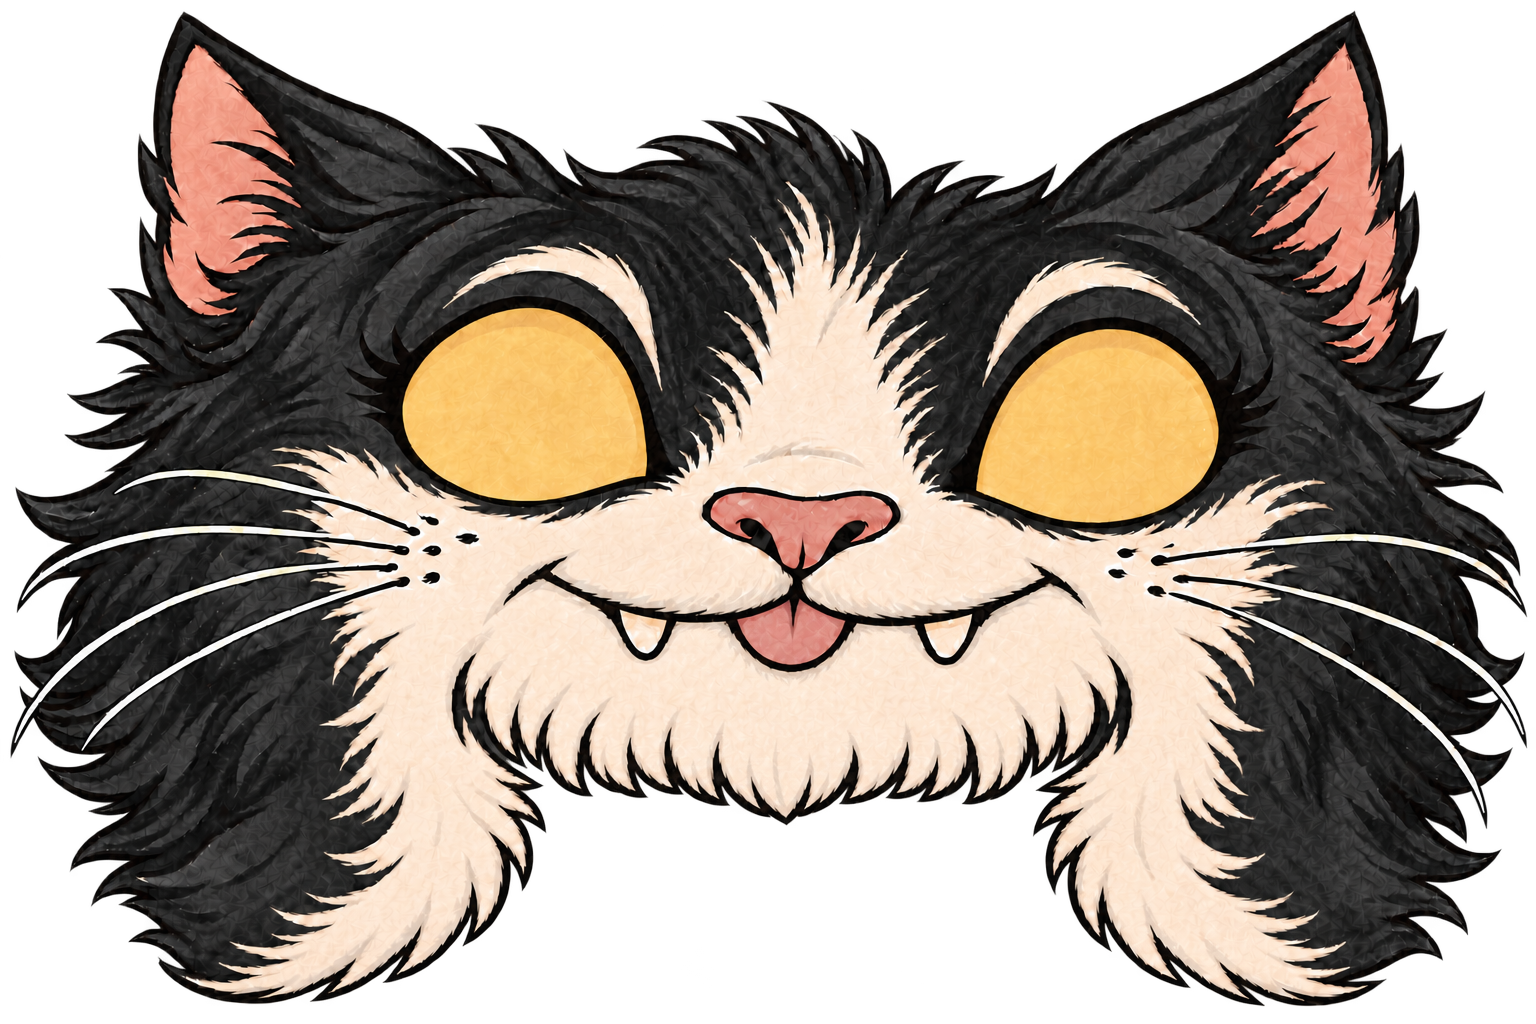
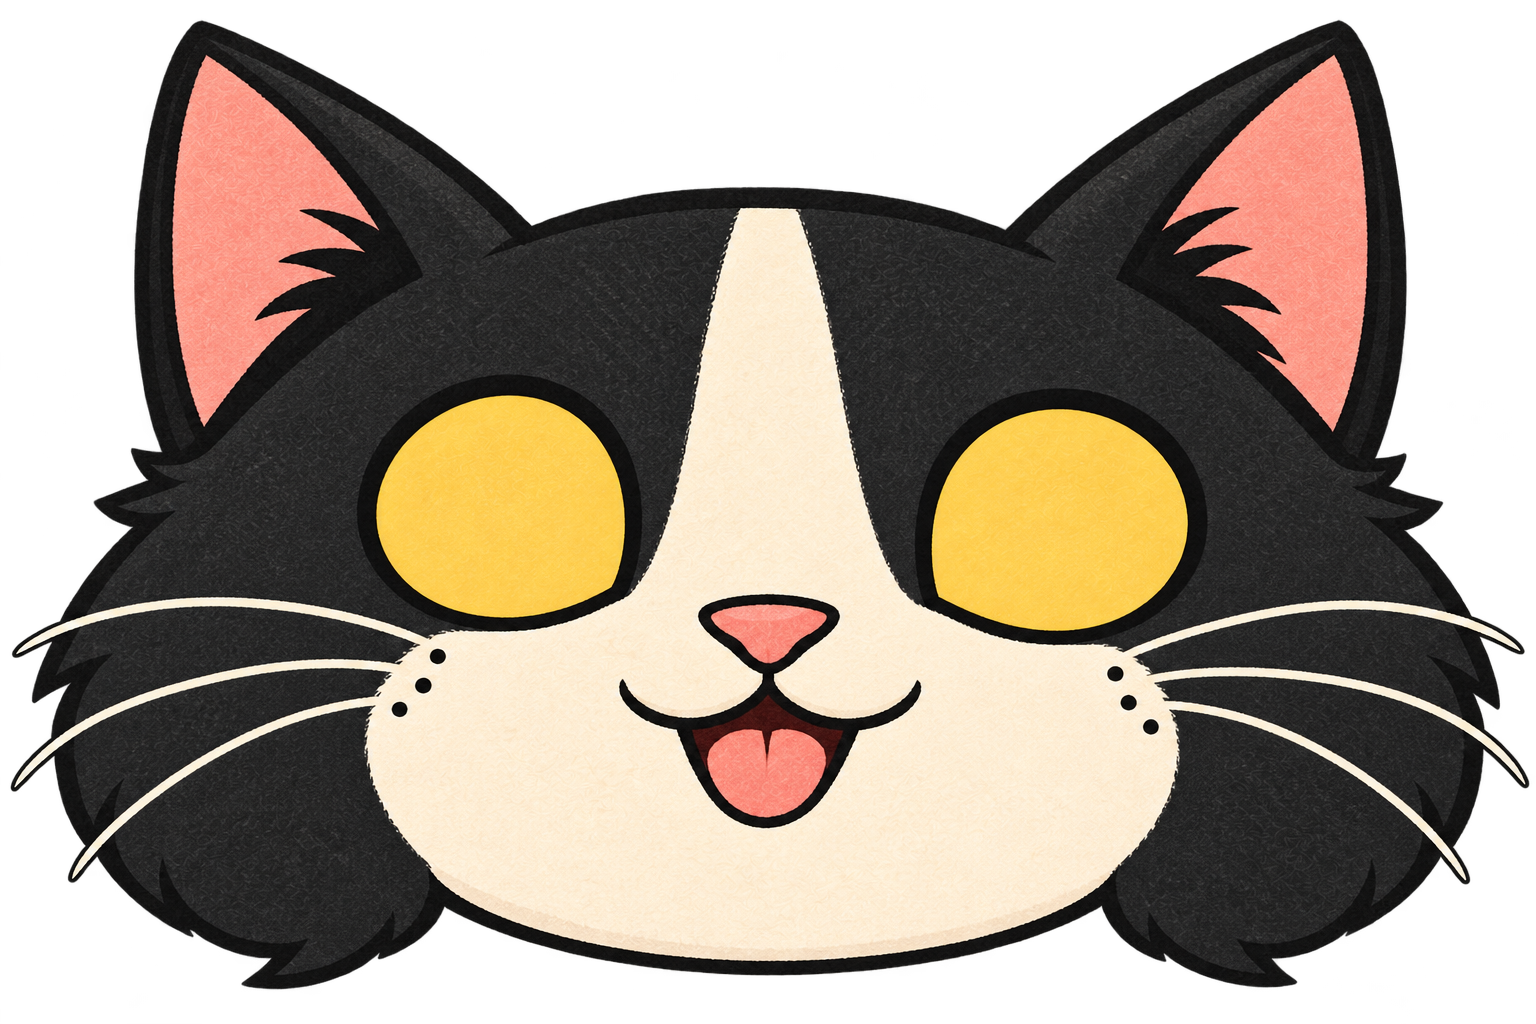
Tuning
Release 20261010221200.

diff --git a/index.html b/index.html
@@ -186,7 +186,7 @@ let holding = false, holdPos = aim, taps = [], dropTimer = 0, saveTimer = 0, las
 // test-build readout at the bottom of the screen: physics time per step (ms) and frames per second, smoothed
 const perf = { step: 0, fps: 60 };
 // when this version was published (publish_game.ps1 fills it in), shown in the readout
-const BUILD = 'Oct 10, 9:04 PM · board preview';
+const BUILD = 'Oct 10, 10:12 PM · board preview';
 
 function initPhysics() {
   // the table tilts gently down toward the player (TILT_DEG): coins at rest stay put, but a push moves them
@@ -1431,9 +1431,9 @@ function drawMachine() {
 
 function drawTrackingPupils() {
  const look=Math.max(-1,Math.min(1,(pupilAim-200)/140));
- const sx=420/ART.head.width,sy=280/ART.head.height;
- for(const e of [{x:522,y:407,rx:100,ry:83},{x:1060,y:435,rx:107,ry:87}]) {
-  const cx=-10+e.x*sx,cy=-15+e.y*sy,w=55*sx,h=145*sy;
+ const sx=420/ART.head.width,sy=240/ART.head.height;
+ for(const e of [{x:500,y:515,rx:118,ry:108},{x:1060,y:532,rx:118,ry:108}]) {
+  const cx=-10+e.x*sx,cy=-25+e.y*sy,w=75*sx,h=180*sy;
   ctx.save();ctx.beginPath();ctx.ellipse(cx,cy,e.rx*sx,e.ry*sy,0,0,7);ctx.clip();
   // Upright pupils translate left/right; no rotation, tilt or skew is applied.
   ctx.drawImage(ART.pupil,483,107,289,1041,cx+look*e.rx*sx*.28-w/2,cy+e.ry*sy*.24-h/2,w,h);
@@ -1557,18 +1557,14 @@ function draw() {
   bodies.sort((a, b) => a.sortK - b.sortK || a.uid - b.uid);
   for (const b of bodies) drawBody(b);
   // Rear coins are inside the mouth: the upper lip and muzzle occlude them.
-  ctx.drawImage(ART.head,-10,-15,420,280);
-  {
-    // The mouth stays open and still; only coins move. The rest uses the approved head sprite.
-    ctx.save();ctx.beginPath();ctx.rect(-10+600*420/1536,-15+590*280/1024,400*420/1536,180*280/1024);ctx.clip();
-    ctx.drawImage(ART.headOpen,-10,-15,420,280);ctx.restore();
-  }
+  ctx.drawImage(ART.head,-10,-25,420,240);
+  // The new head includes the small, stationary mouth and tongue; no old-style mouth patch is overlaid.
   drawTrackingPupils();
   for(const b of bodies){
     if(!b.input||time-b.mouthAt>=MOUTH_REVEAL_SEC+MOUTH_DROP_SEC)continue;
     const u=Math.max(0,(time-b.mouthAt-MOUTH_REVEAL_SEC)/MOUTH_DROP_SEC),t=b.rb.translation(),end=screenOf(t.x/M,t.z/M,t.y/M);
     const ease=u*u;
-    drawCoinAt(b.kind,{...end,x:209+(end.x-209)*ease,y:156+(end.y-156)*ease,s:.8+(end.s-.8)*ease},b.rb.rotation(),b.id);
+    drawCoinAt(b.kind,{...end,x:199+(end.x-199)*ease,y:153+(end.y-153)*ease,s:.8+(end.s-.8)*ease},b.rb.rotation(),b.id);
   }
   for (const f of falling) {
     // tipping over the edge and dropping away, fading as it goes (the ones at the corners go behind the paws)
